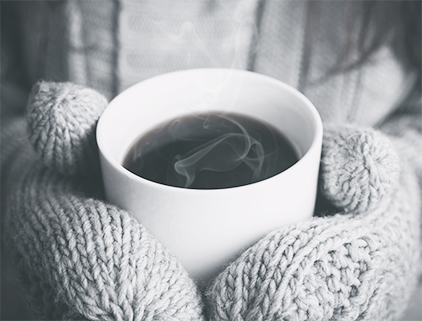
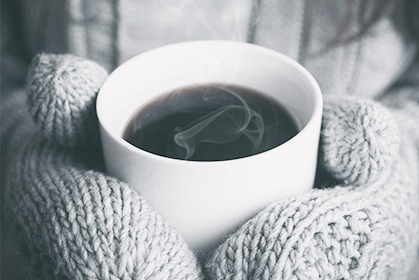
remarks

diff --git a/css/main.css b/css/main.css
@@ -1,32 +1,28 @@
+@import url('https://fonts.googleapis.com/css?family=Playfair+Display&display=swap');
+
 .wrap {
     max-width: 901px;
     width: 100%;
     margin: 0 auto;
 }
 
-
-/* colors
---main-bg-color: #626262; */
-
-
-
 /* start header */
 .header {
-    height: 193px;
+    padding-bottom: 104px;
+    padding-top: 77px;
 }
 
 .menu {
     list-style-type: none;
-    display: flex;
-    justify-content: space-around;
-    flex-wrap: wrap;
-    align-items: center;
+    text-align: center;
     height: 100%;
     margin: 0;
+    padding: 0;
 }
 
 .menu li {
     display: inline-block;
+    padding: 0 60.5px 0 60.5px;
 }
 
 .menu li a {
@@ -62,8 +58,7 @@
 
 .box-img {
     display: inline-block;
-    max-width: 419px;
-    width: 100%;
+    width: 419px;
 }
 
 .box-img:nth-child(odd) {
@@ -79,10 +74,9 @@
 }
 
 .image {
-    max-width: 419px;
+    display: block;
     width: 100%;
-    height: 100%;
-    max-height: 280px;
+    height: auto
 }
 
 .image:hover {
@@ -113,13 +107,10 @@
 .main-btn {
     display: inline-block;
     background-color: transparent;
-    width: 100%;
-    max-width: 164px;
-    height: 60px;
-    font-size: 20px;
-    box-sizing: border-box;
+    font-size: 24px;
     border: 1px solid #626262;
     margin: 90px 0 20px;
+    padding: 21px 34px;
 }
 
 .main-btn:hover {
@@ -127,7 +118,7 @@
     color: #fff;
     cursor: pointer;
     transform: all 0.5s;
-    border: transparent;
+    border: 1px solid transparent;
 }
 /* end button */
 
